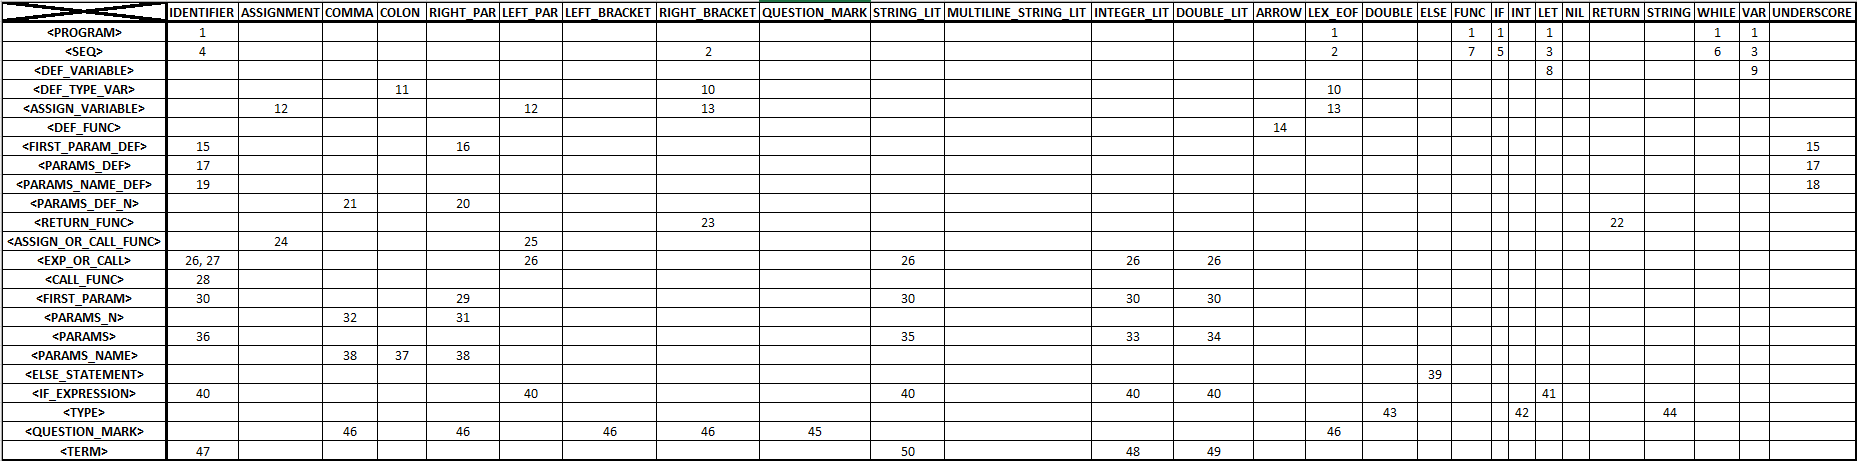
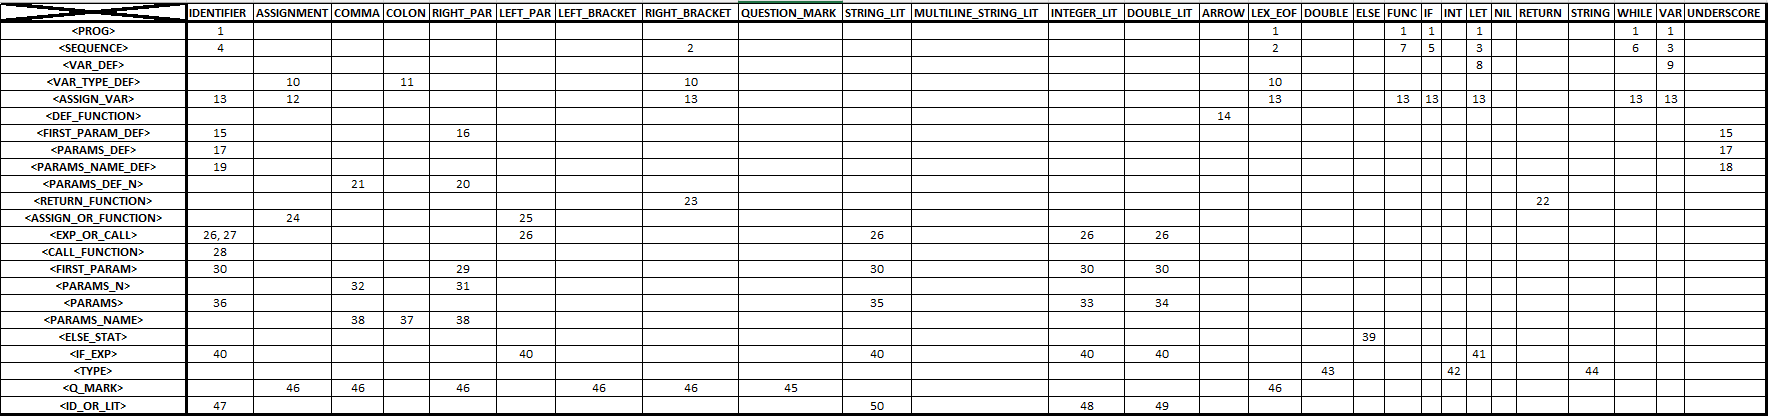
Updated LL_TABLE and added functions in parser

Changed region(s): [[0.0, 0.0, 1.0, 1.0]]

diff --git a/src/parser.c b/src/parser.c
@@ -7,16 +7,22 @@
 #include "parser.h"
 
 bool Prog(Lexeme token) {
+    // // <PROG> -> EOF
     if (token.kind == EOF) return true;
+    // <PROG> -> <SEQUENCE>
     if (token.kind == IDENTIFIER || token.kind == FUNC || token.kind == IF || token.kind == LET || token.kind == WHILE || token.kind == VAR) {
         Sequence(token);
         return true;
     }
+    exit(2);
     return false;
 }
 
 bool Sequence(Lexeme token) {
+    // <SEQUENCE> -> ε
     if (token.kind == RIGHT_BRACKET || token.kind == EOF) return true;
+
+    // <SEQUENCE> -> <VAR_DEF> IDENTIFIER <VAR_TYPE_DEF> <ASSIGN_VAR> <SEQUENCE>
     if (token.kind == LET || token.kind == VAR) {
         if (!VarDef(token))
             exit(2);
@@ -41,20 +47,32 @@ bool Sequence(Lexeme token) {
         return true;
     }
 
-    //TODO: dokoncit
+    
+    // <SEQUENCE> -> IDENTIFIER <ASSIGN_OR_FUNCTION> <SEQUENCE>
     else if (token.kind == IDENTIFIER) {
+        token = get_next_non_whitespace_lexeme();
+
         if (!AssignOrFunction(token))
             exit(2);
+
+        token = get_next_non_whitespace_lexeme();
+
+        Sequence(token);
         return true;
     }
+    
+    //TODO: dokoncit
+    // <SEQUENCE> -> IF <IF_EXP> LEFT_BRACKET <SEQUENCE> RIGHT_BRACKET <ELSE_STAT> <SEQUENCE>
     else if (token.kind == IF) {
         if (!IfExp(token))
             exit(2);
         return true;
     }
+    // <SEQUENCE> -> WHILE <EXPRESSION> LEFT_BRACKET <SEQUENCE> RIGHT_BRACKET <SEQUENCE>
     else if (token.kind == WHILE) {
         return true;
     }
+    // <SEQUENCE> -> FUNC IDENTIFIER LEFT_PAR <FIRST_PARAM_DEF> <DEF_FUNCTION> <SEQUENCE>
     else if (token.kind == FUNC) {
         if (!DefFunction(token))
             exit(2);
@@ -67,7 +85,102 @@ bool Sequence(Lexeme token) {
     }
 }
 
+bool AssignOrFunction(Lexeme token) {
+    // <ASSIGN_OR_FUNCTION> -> ASSIGNMENT <EXP_OR_CALL>
+    if (token.kind == ASSIGNMENT){
+        token = get_next_non_whitespace_lexeme();
+        if (!ExpOrCall(token))
+            exit(2);
+        return true;
+    }
+    // <ASSIGN_OR_FUNCTION> -> LEFT_PAR <FIRST_PARAM>
+    if (token.kind == LEFT_PAR){
+        token = get_next_non_whitespace_lexeme();
+        if(!FirstParam(token))
+            exit(2);
+        return true;
+    }
+    return false;
+}
+
+bool FirstParam(Lexeme token){
+    // <FIRST_PARAM> -> RIGHT_PAR
+    if (token.kind == RIGHT_PAR)
+        return true;
+    // <FIRST_PARAM> -> <PARAMS> <PARAMS_N>
+    if (token.kind == INTEGER_LIT || token.kind == IDENTIFIER || token.kind == STRING_LIT || token.kind == DOUBLE_LIT) {
+        token = get_next_non_whitespace_lexeme();
+        if (!Params(token))
+            exit(2);
+
+        token = get_next_non_whitespace_lexeme();
+
+        if(!ParamsN(token))
+            exit(2);
+        return true;
+    }
+    return false;
+}
+
+bool ParamsN(Lexeme token) {
+    // <PARAMS_N> -> RIGHT_PAR
+    if (token.kind == RIGHT_PAR)
+        return true;
+    // <PARAMS_N> -> COMMA <PARAMS> <PARAMS_N>
+    if (token.kind == COMMA){
+        token = get_next_non_whitespace_lexeme();
+        if (!Params(token))
+            exit(2);
+        
+        token = get_next_non_whitespace_lexeme();
+
+        if(!ParamsN(token))
+            exit(2);
+
+        return true;
+    }
+    return false;
+}
+
+bool Params(Lexeme token) {
+    //  <PARAMS> -> INT_LIT || DOUBLE_LIT || STRING_LIT
+    if (token.kind == INTEGER_LIT || token.kind == STRING_LIT || token.kind == DOUBLE_LIT)
+        return true;
+    // <PARAMS> -> IDENTIFIER <PARAMS_NAME>
+    if (token.kind == IDENTIFIER){
+        token = get_next_non_whitespace_lexeme();
+        if(!ParamsName(token))
+            exit(2);
+        return true;
+    }
+    return false;
+}
+
+bool ParamsName(Lexeme token){
+    // <PARAMS_NAME> -> COLON <ID_OR_LIT>
+    if (token.kind == COLON){
+        token = get_next_non_whitespace_lexeme();
+        if(!IdOrLit(token))
+            exit(2);
+        return true;
+    }
+    // <PARAMS_NAME> -> ε
+    if (token.kind == COMMA || RIGHT_PAR)
+        return true;
+
+    return false;
+}
+
+bool IdOrLit(Lexeme token) {
+    // <ID_OR_LIT> -> IDENTIFIER || INT_LIT || DOUBLE_LIT || STRING_lIT
+    if (token.kind == IDENTIFIER || token.kind == STRING_LIT || token.kind == DOUBLE_LIT || token.kind ==  INTEGER_LIT)
+        return true;
+    
+    return false;
+}
+
 bool VarDef(Lexeme token) {
+    // <VAR_DEF> -> LET || VAR
     if (token.kind == LET || token.kind == VAR) {
         return true;
     }
@@ -75,33 +188,36 @@ bool VarDef(Lexeme token) {
 }
 
 bool VarTypeDef(Lexeme token) {
+    // <VAR_TYPE_DEF> -> COLON <TYPE>
     if (token.kind == COLON) {
         token = get_next_non_whitespace_lexeme();
         if (!Type(token))
             exit(2);
         return true;
     }
-
+    // <VAR_TYPE_DEF> -> ε
     else if (token.kind == ASSIGNMENT || token.kind == LEX_EOF || token.kind == RIGHT_BRACKET) {
         return true;
     }
-
     return false;
 }
 
 bool Type(Lexeme token) {
+    // <TYPE> -> INT <Q_MARK>
     if (token.kind == INT) {
         token = get_next_non_whitespace_lexeme();
         if(!QMark(token))
             exit(2);
         return true;
     }
+    // <TYPE> -> STRING <Q_MARK>
     else if (token.kind == STRING) {
         token = get_next_non_whitespace_lexeme();
         if(!QMark(token))
             exit(2);
         return true;
     }
+    // <TYPE> -> DOUBLE <Q_MARK>
     else if (token.kind == DOUBLE) {
         token = get_next_non_whitespace_lexeme();
         if(!QMark(token))
@@ -112,9 +228,11 @@ bool Type(Lexeme token) {
 }
 
 bool QMark(Lexeme token) {
+    // <Q_MARK> -> QUESTION_MARK 
     if (token.kind == QUESTION_MARK) {
         return true;
     }
+    // <Q_MARK> -> ε
     else if (token.kind == ASSIGNMENT || token.kind == LEX_EOF || token.kind == RIGHT_BRACKET || token.kind == COMMA || token.kind == LEFT_BRACKET || token.kind == RIGHT_PAR) {
         return true;
     }
@@ -122,12 +240,14 @@ bool QMark(Lexeme token) {
 }
 
 bool AssignVar(Lexeme token) {
+    // <ASSIGN_VAR> -> ASSIGNMENT <EXP_OR_CALL>
     if (token.kind == ASSIGNMENT) {
         token = get_next_non_whitespace_lexeme();
         if (!ExpOrCall(token))
             exit(2);
         return true;
     }
+    // <ASSIGN_VAR> -> ε
     else if (token.kind == IDENTIFIER || token.kind == RIGHT_BRACKET || token.kind == LEX_EOF || token.kind == FUNC || token.kind == IF || token.kind == LET || token.kind == WHILE || token.kind == VAR) {
         return true;
     }
